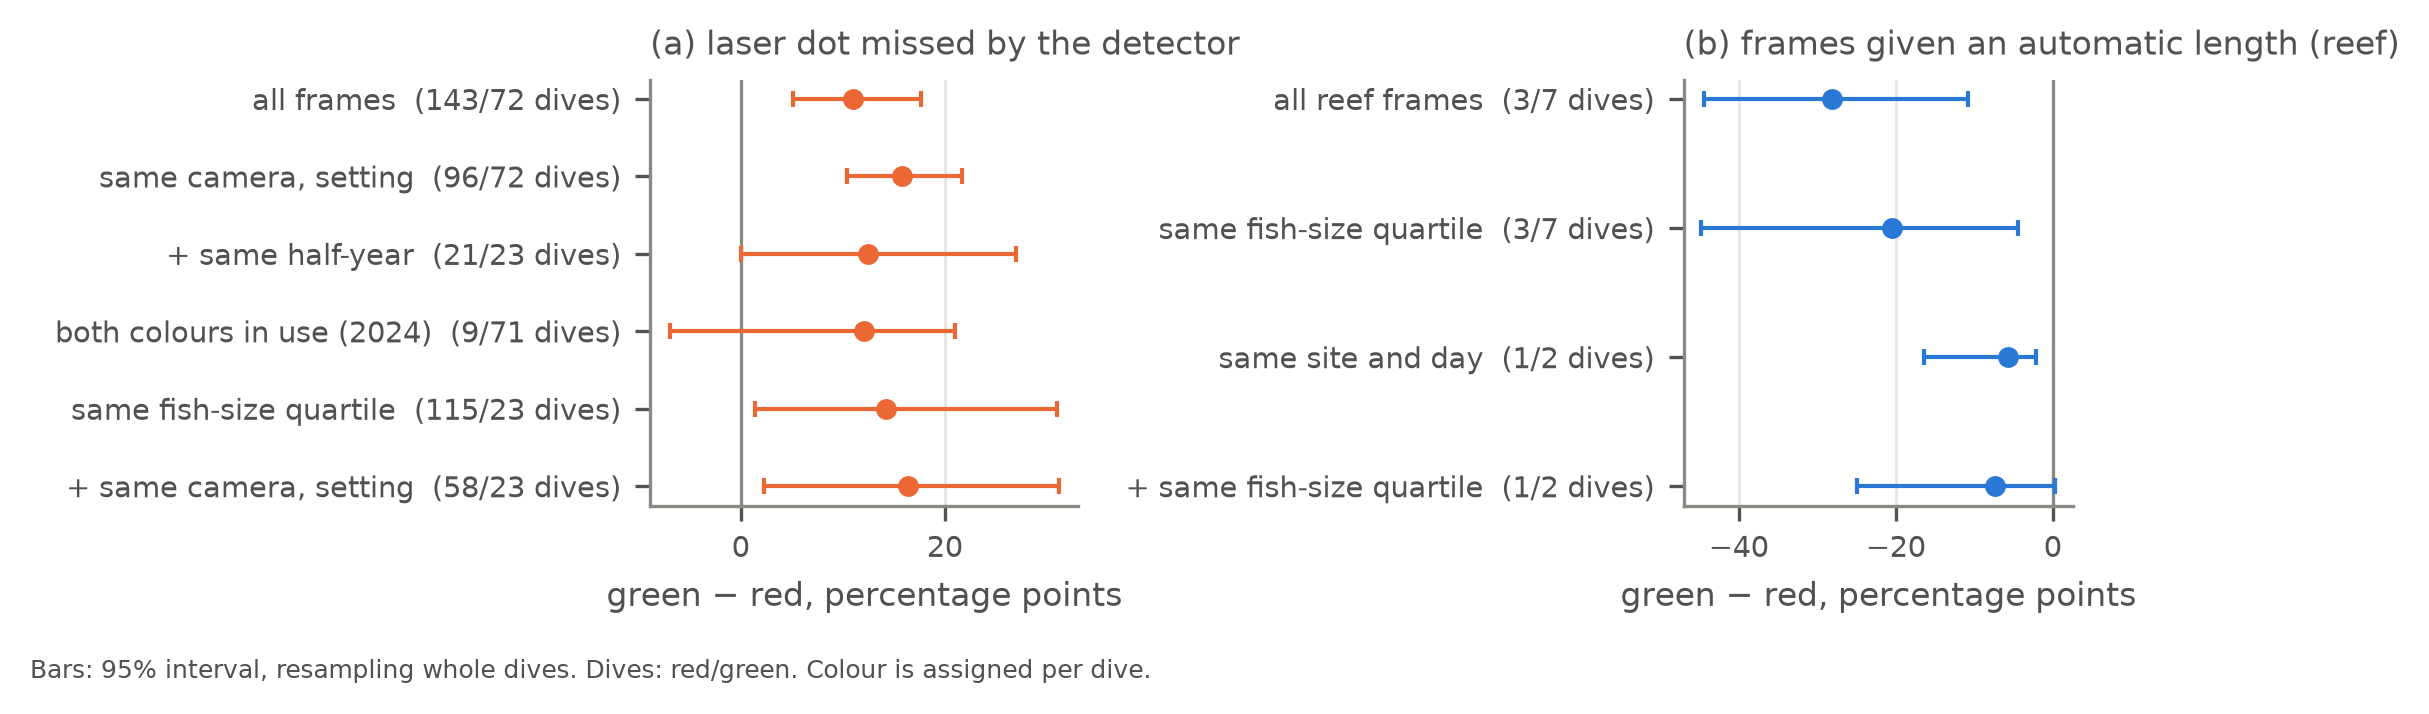
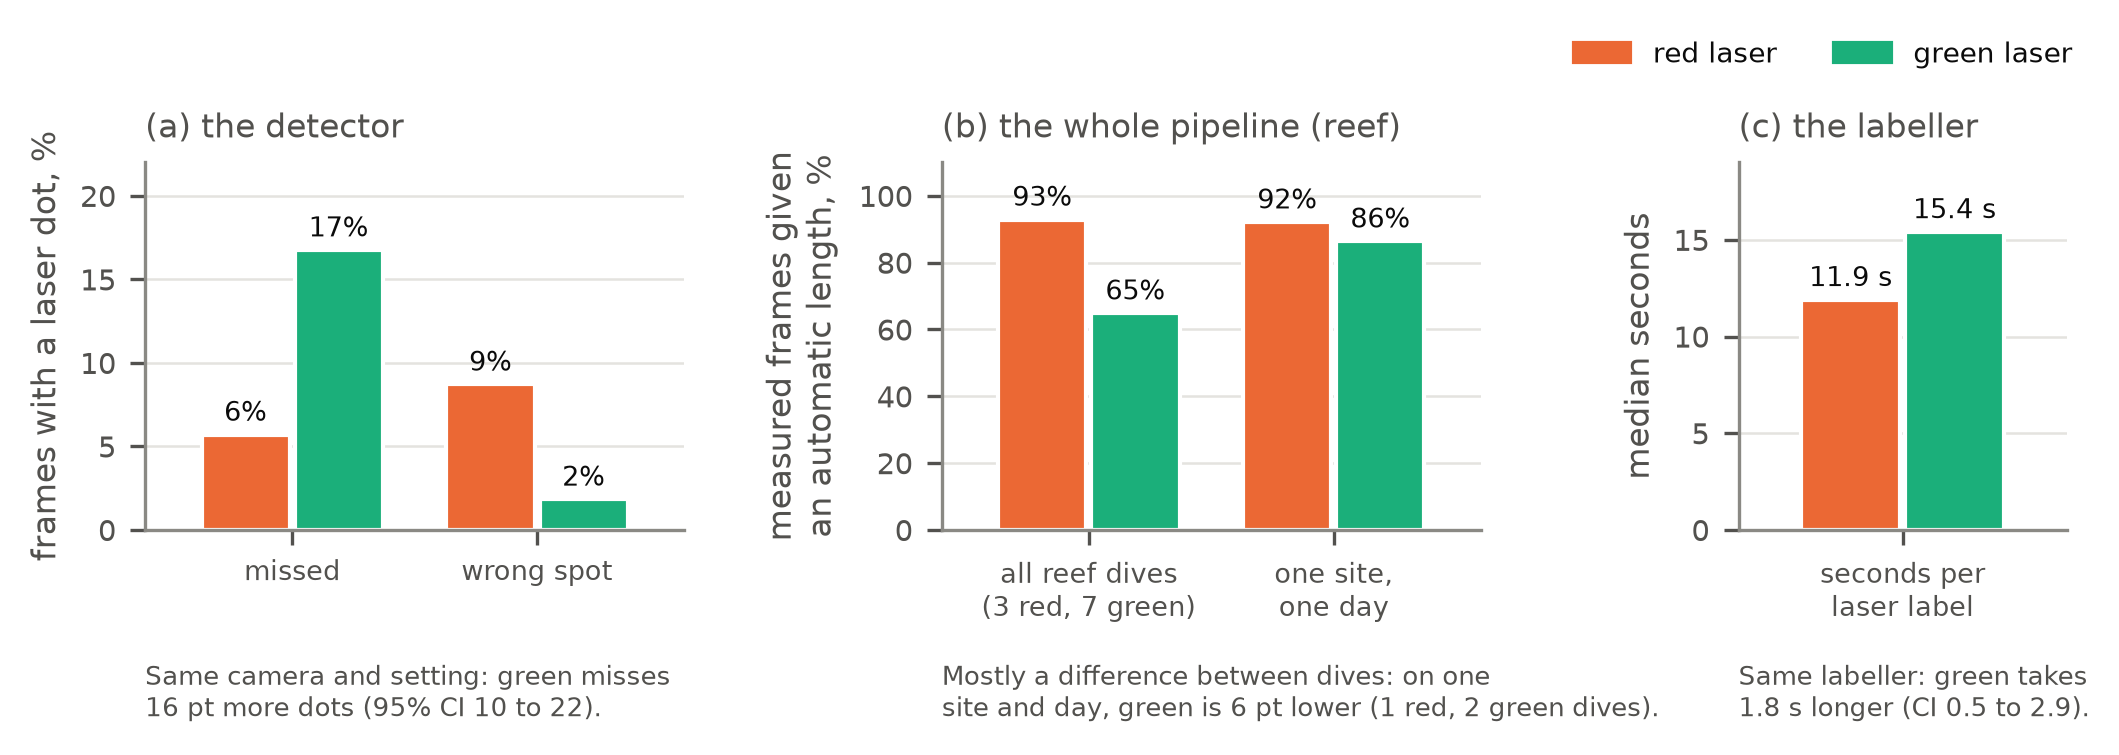
fig: redraw red vs green as what green cost each stage
Plain red-vs-green rates for the detector, the reef pipeline and the labeller,
with the matched comparison stated under each panel, replacing the forest plot
of differences.

diff --git a/analysis/codesign/figures.py b/analysis/codesign/figures.py
@@ -3,7 +3,7 @@
   codesign_timeline      design revisions over time by component, coloured by driver (timeline.yaml)
   codesign_frames_fish   share of fish with a length within 10% of manual vs frames taken (3b)
   codesign_spread        calibration angle error vs slate size spread, 0.05 deg target marked (3c)
-  codesign_redgreen      green - red difference in dot misses and coverage under each control (3d)
+  codesign_redgreen      what green cost the detector, the pipeline and the labeller: red vs green rates, matched comparison noted (3d, 3e)
   design_rules.tex       LaTeX design-rules table from design_rules.yaml + claims.yaml (evidence level, section)
 
 SenSys figure set, one per paper section (the rest of the set reuses figures above and in figures/):
@@ -161,29 +161,52 @@ def codesign_spread():
 
 
 def codesign_redgreen():
-    R = pd.read_csv(RES / "redgreen.csv"); C = pd.read_csv(RES / "redgreen_coverage.csv")
-    miss = R[(R.outcome == "missed") & (R.design != "raw, per-frame label colour (T3)")
-             & ~R.design.isin(["fish length: frames with head/tail (raw)", "fish length: quartile x environment"])]
-    names = {"raw": "all frames", "camera x environment": "same camera, setting",
-             "camera x environment x half-year": "+ same half-year", "stagger window 2024-03..2024-12": "both colours in use (2024)",
-             "fish length: quartile": "same fish-size quartile", "fish length: quartile x camera x environment": "+ same camera, setting"}
-    cov = C[C.outcome == "produced"]
-    cnames = {"reef, raw": "all reef frames", "reef, fish-length quartile": "same fish-size quartile",
-              "Alligator 2024-03-14 (341 red vs 347+349 green)": "same site and day",
-              "Alligator 2024-03-14, fish-length quartile": "+ same fish-size quartile"}
-    fig, (a, b) = plt.subplots(1, 2, figsize=(TWO, 2.2), gridspec_kw=dict(width_ratios=[1.1, 1]))
-    for ax, D, nm, col, title, xl in ((a, miss, names, ORANGE, "(a) laser dot missed by the detector", "green − red, percentage points"),
-                                      (b, cov, cnames, BLUE, "(b) frames given an automatic length (reef)", "green − red, percentage points")):
-        y = np.arange(len(D))[::-1]
-        ax.axvline(0, color=MUTED, lw=0.8)
-        ax.errorbar(D.green_minus_red * 100, y, xerr=[(D.green_minus_red - D.ci_lo) * 100, (D.ci_hi - D.green_minus_red) * 100],
-                    fmt="o", color=col, ms=4, capsize=2, elinewidth=1)
-        ax.set_yticks(y, [f"{nm[d]}  ({int(r)}/{int(g)} dives)" for d, r, g in zip(D.design, D.dives_red, D.dives_green)])
-        ax.grid(axis="y", visible=False); ax.set_xlabel(xl)
-        ax.set_title(title, loc="left", color=INK2)
-    fig.text(0.01, -0.04, "Bars: 95% interval, resampling whole dives. Dives: red/green. Colour is assigned per dive.",
-             fontsize=6, color=INK2)
-    fig.tight_layout(); save(fig, "codesign_redgreen")
+    """What the switch to green cost each stage: the detector, the end-to-end pipeline, the labeller.
+    Bars are plain red-vs-green rates; the line under each panel is the matched comparison."""
+    R = pd.read_csv(RES / "redgreen.csv"); C = pd.read_csv(RES / "redgreen_coverage.csv"); B = pd.read_csv(RES / "before_after.csv")
+    row = lambda D, design, outcome: D[(D.design == design) & (D.outcome == outcome)].iloc[0]
+    RED, GRN = ORANGE, AQUA      # laser colours; always named in the legend, never colour alone
+    fig, axes = plt.subplots(1, 3, figsize=(TWO, 2.45), gridspec_kw=dict(width_ratios=[1.15, 1.15, 0.7]))
+
+    def pairs(ax, groups, fmt, ymax):
+        for k, (name, r, g) in enumerate(groups):
+            for dx, v, col in ((-0.19, r, RED), (0.19, g, GRN)):
+                ax.bar(k + dx, v, width=0.36, color=col, edgecolor="white", linewidth=1)
+                ax.text(k + dx, v + ymax * 0.02, fmt(v), ha="center", va="bottom", fontsize=6.4, color=INK)
+        ax.set_xticks(range(len(groups)), [g[0] for g in groups], fontsize=6.6)
+        ax.set_xlim(-0.6, len(groups) - 0.4)
+        ax.set_ylim(0, ymax); ax.grid(axis="x", visible=False)
+
+    a, b, c = axes
+    m, w = row(R, "raw", "missed"), row(R, "raw", "confident-wrong")
+    pairs(a, [("missed", m.red_rate * 100, m.green_rate * 100),
+              ("wrong spot", w.red_rate * 100, w.green_rate * 100)], lambda v: f"{v:.0f}%", 22)
+    a.set_ylabel("frames with a laser dot, %")
+    a.set_title("(a) the detector", loc="left", color=INK2)
+    mm = row(R, "camera x environment", "missed")
+    a.text(0.0, -0.36, f"Same camera and setting: green misses\n{mm.green_minus_red * 100:.0f} pt more dots "
+           f"(95% CI {mm.ci_lo * 100:.0f} to {mm.ci_hi * 100:.0f}).", transform=a.transAxes, fontsize=6.2, color=INK2, va="top")
+
+    al, sd = row(C, "reef, raw", "produced"), row(C, "Alligator 2024-03-14 (341 red vs 347+349 green)", "produced")
+    pairs(b, [(f"all reef dives\n({int(al.dives_red)} red, {int(al.dives_green)} green)", al.red_rate * 100, al.green_rate * 100),
+              ("one site,\none day", sd.red_rate * 100, sd.green_rate * 100)],
+          lambda v: f"{v:.0f}%", 110)
+    b.set_ylabel("measured frames given\nan automatic length, %")
+    b.set_title("(b) the whole pipeline (reef)", loc="left", color=INK2)
+    b.text(0.0, -0.36, f"Mostly a difference between dives: on one\nsite and day, green is {-sd.green_minus_red * 100:.0f} pt lower "
+           f"({int(sd.dives_red)} red, {int(sd.dives_green)} green dives).",
+           transform=b.transAxes, fontsize=6.2, color=INK2, va="top")
+
+    lb = B[B.revision.str.startswith("laser red")].iloc[0]
+    pairs(c, [("seconds per\nlaser label", lb.pooled_median_a, lb.pooled_median_b)], lambda v: f"{v:.1f} s", 19)
+    c.set_ylabel("median seconds")
+    c.set_title("(c) the labeller", loc="left", color=INK2)
+    c.text(0.0, -0.36, f"Same labeller: green takes\n{lb.within_annotator_diff:.1f} s longer "
+           f"(CI {lb.ci_lo:.1f} to {lb.ci_hi:.1f}).", transform=c.transAxes, fontsize=6.2, color=INK2, va="top")
+
+    handles = [MF.matplotlib.patches.Patch(color=RED, label="red laser"), MF.matplotlib.patches.Patch(color=GRN, label="green laser")]
+    fig.legend(handles=handles, loc="upper right", ncol=2, frameon=False, fontsize=6.8, bbox_to_anchor=(1.0, 1.0))
+    fig.subplots_adjust(left=0.07, right=0.985, bottom=0.3, top=0.8, wspace=0.55); save(fig, "codesign_redgreen")
 
 
 # ---------------------------------------------------------------- SenSys set

diff --git a/analysis/codesign/FIGURES.md b/analysis/codesign/FIGURES.md
@@ -10,7 +10,7 @@ One figure (or pair) per section of the paper outline. Rebuild:
 | 3 How the design changed | revisions by component, coloured by recorded driver | `analysis/codesign/figures/codesign_timeline` | timeline.yaml |
 | 5 Calibration | (a) slate size measures vs tape, labelled vs label-free; (b) error vs size spread | `analysis/codesign/figures/sensys_calibration` | tape_by_session.csv, calibration_spread_bins.csv |
 | 5 Calibration | slate-frame detector (precision-recall; per-dive recall) | `figures/fig9_slate_detector` | data/slate_detector/ |
-| 6 Sensing hardware | green - red dot misses and coverage under each control | `analysis/codesign/figures/codesign_redgreen` | results/redgreen*.csv |
+| 6 Sensing hardware | what green cost the detector, the pipeline and the labeller (red vs green, matched comparison under each panel) | `analysis/codesign/figures/codesign_redgreen` | results/redgreen*.csv, results/before_after.csv |
 | 7 Capture protocol | (a) frames per fish delivered; (b) what each frame buys | `analysis/codesign/figures/sensys_capture` | frames_per_fish.py |
 | 8 Labelling | (a) seconds per label, scratch vs accepted pre-fill; (b) what labellers do with a pre-fill | `analysis/codesign/figures/sensys_labelling` | labelling.py, data/labeling/lead_times.csv |
 | 9 End-to-end | pool stage ladder vs tape | `figures/fig4_stage_ladder` | e2e_measurement/ |

diff --git a/analysis/codesign/ai_use.md b/analysis/codesign/ai_use.md
@@ -84,6 +84,7 @@ Paths are relative to the repository root unless prefixed with a sibling reposit
 | 2026-10-07 | Board-fit sizes re-run on the slate project's commit 4fa1c8d (tilt prior) | analysis | assistant | this commit (analysis: board fit at slate commit 4fa1c8d...) |
 | 2026-10-07 | Pre-fill outcomes by distance (`sql/extract_seed_moves.sql` -> `data/db_extracts/seed_moves.psv`; `origins` column added to `extract_annotations.sql`; `analysis/codesign/labelling.py`), read-only | analysis | assistant | this commit (fig: SenSys figure set...) |
 | 2026-10-07 | SenSys figure set: sensys_system, sensys_calibration, sensys_capture, sensys_labelling (`analysis/codesign/figures.py`), figure map `FIGURES.md`; claims and design rules updated (the 93% auto-accept figure replaced by the measured 88-89%) | figures + prose | assistant | this commit (fig: SenSys figure set...) |
+| 2026-10-07 | Red vs green figure redrawn by pipeline stage (detector, reef pipeline, labeller) at the author's request | figure | assistant | this commit (fig: redraw red vs green...) |
 
 Work in sibling repositories that the paper relies on is AI-assisted too, and needs its own entries before submission:
 - slate detector (2026-10-03_slate_detector);
